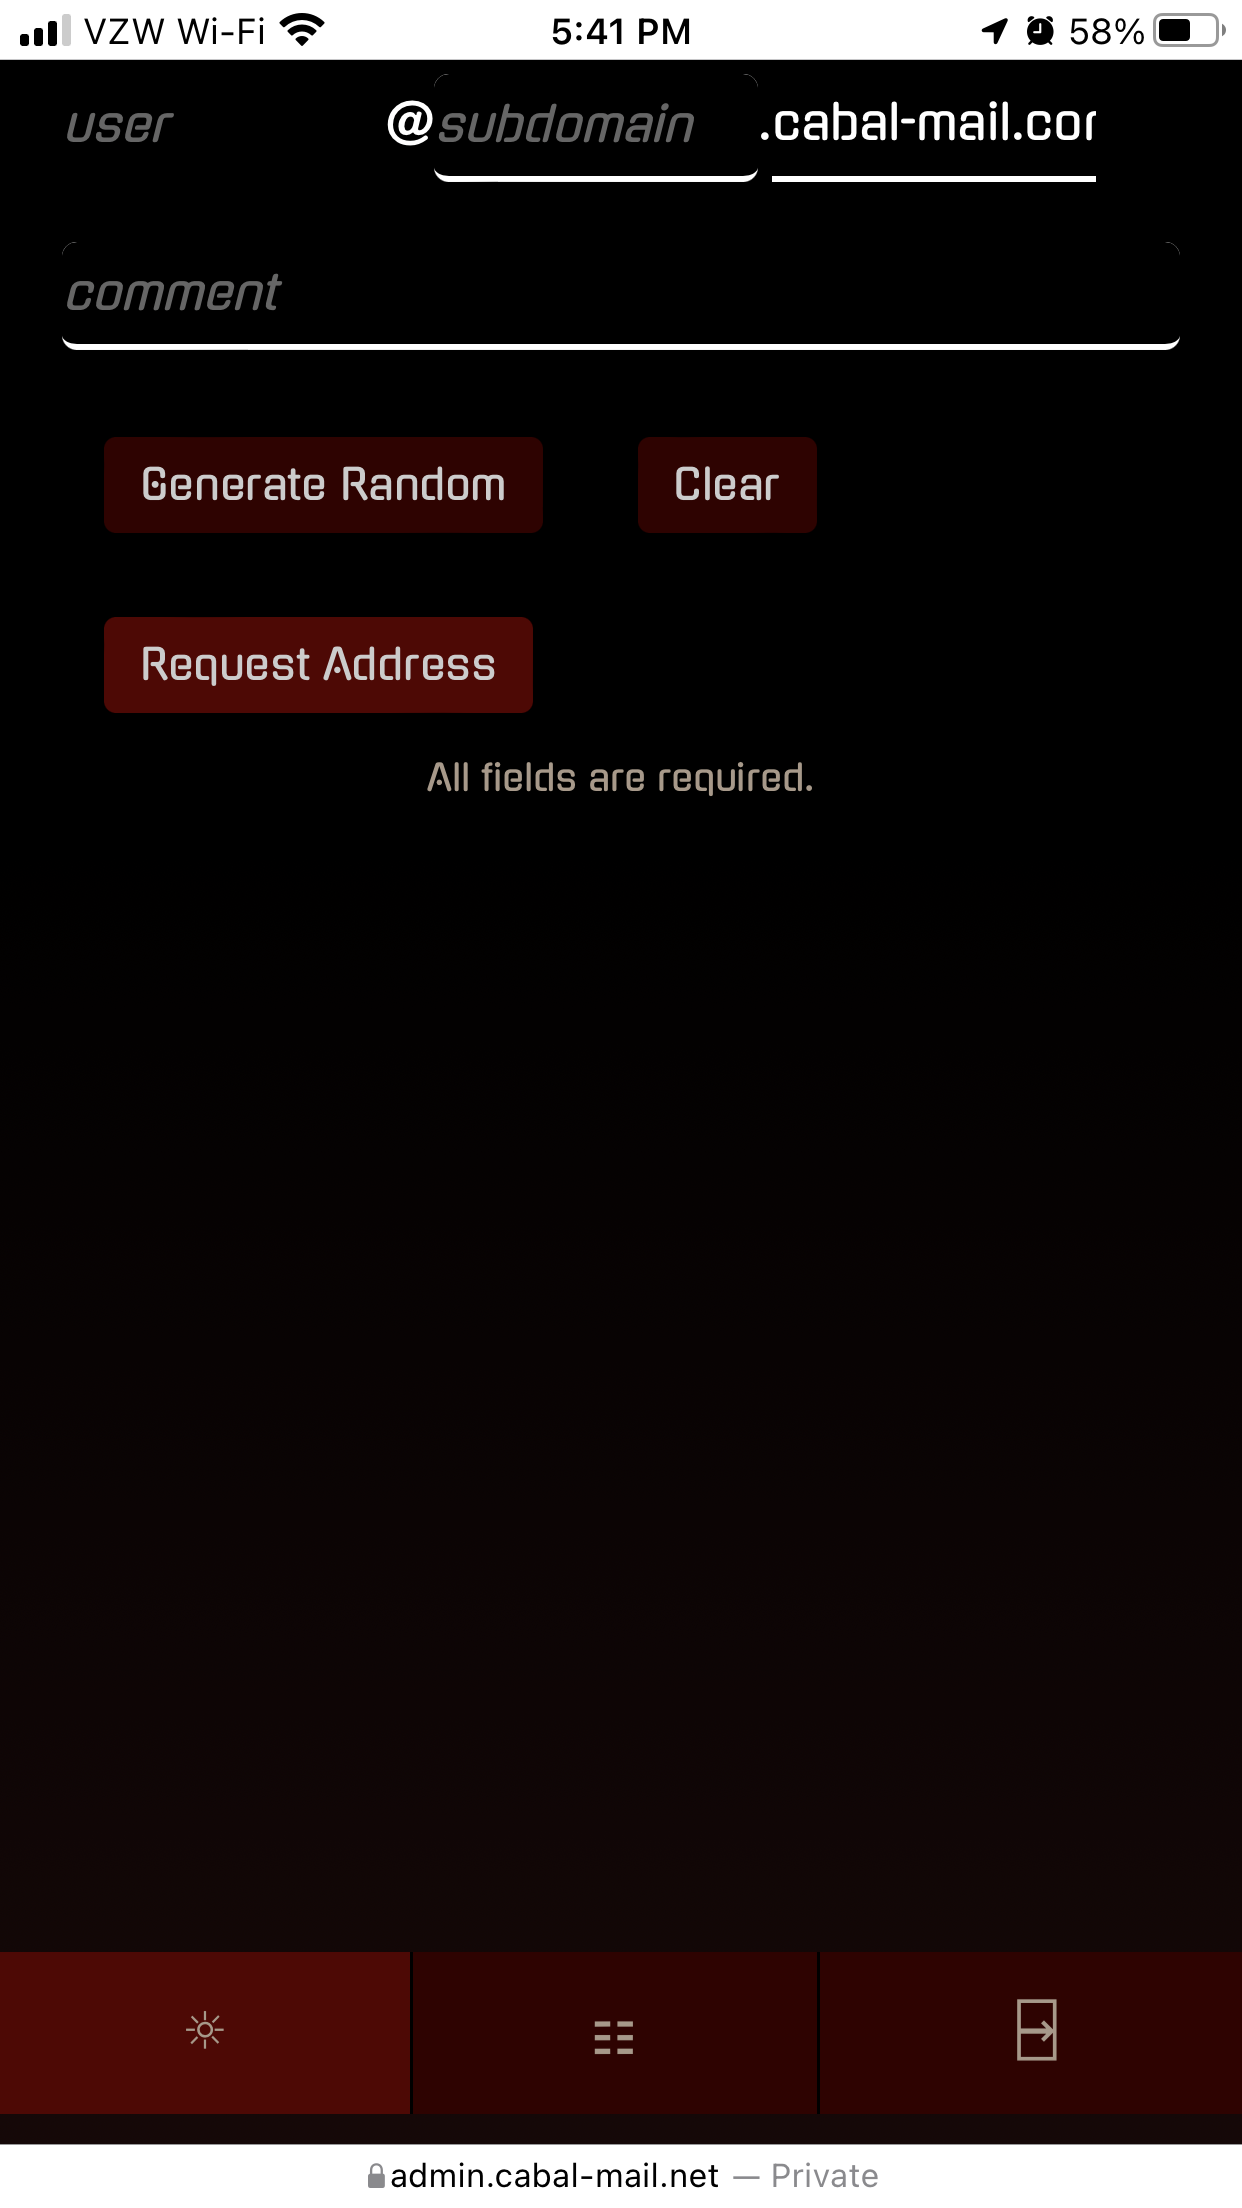
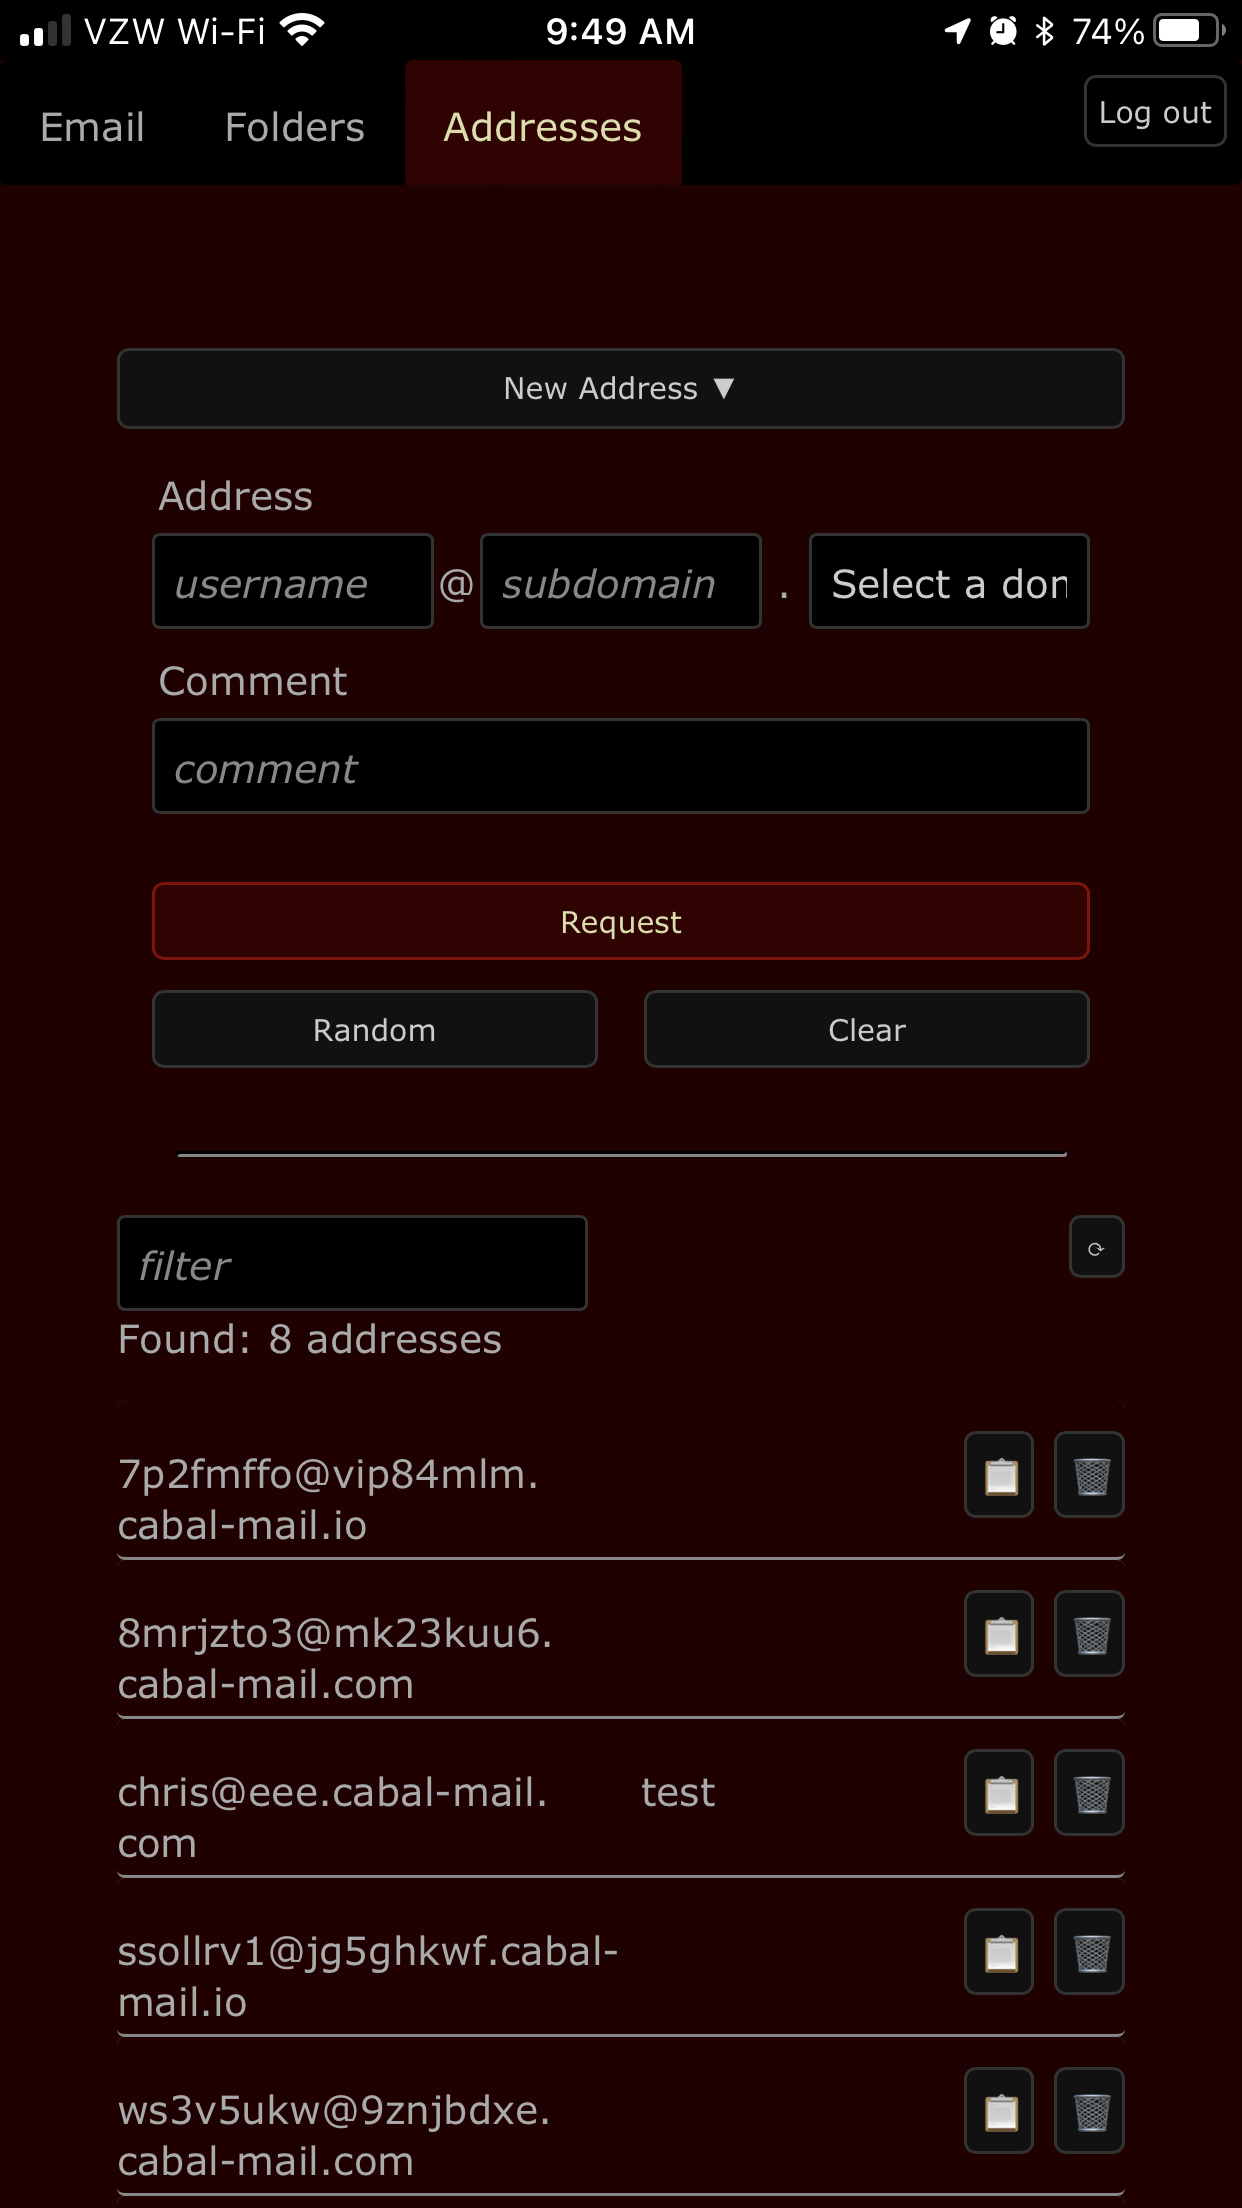
Update user manual and app images related to address management

diff --git a/docs/user_manual.md b/docs/user_manual.md
@@ -15,13 +15,11 @@ As an end user, you must first establish an account. Once approved, you can use 
 ### Creating an Account
 1. Visit the login page at the admin URL.
 
-2. Click the "Or request an account" link on the login page.
+2. Click or tap "Sign up" in the main tab bar.
 
-    <img src="./app_screens/1_login.png" alt="Login Page" width="400" />
+    <img src="./app_screens/0_signup.png" alt="Login Page" width="400" />
 
-3. Fill out the form. All fields are mandatory. When done, tap or click the "Request Account" button.
-
-    <img src="./app_screens/0_signup.png" alt="Signup Page" width="400" />
+3. Fill out the form. All fields are mandatory. When done, tap or click the "Signup" button.
 
 4. Wait for an administrator to approve your account.
 
@@ -32,44 +30,72 @@ As an end user, you must first establish an account. Once approved, you can use 
 
     <img src="./app_screens/1_login.png" alt="Login Page" width="400" />
 
-3. Tap or click the "Sign in" button.
+3. Tap or click the "Login" button.
 
-### Requesting an Address
-After logging in, the default screen is the request address form.
+### Working with Addresses
 
-1. If you're not already on the request address form, tap the asterisk tab in the lower left (mobile) or click on the "New address" tab in the upper left (desktop).
+Click or tap on "Addresses" in the main tab bar to request a new address, list addresses, or revoke an address.
+
+#### Requesting an Address
+
+1. From the Addresses screen, click or tap on the "New Address" button to reveal a form.
 
     <img src="./app_screens/2_request_address.png" alt="Request Address Page" width="400" />
 
-2. Fill out the form. Optionally, click the "Generate Random" button to quickly create a unique address suitable for online contact forms. All fields are mandatory. (For "Comment", we recommend that you record the name of the person or company to whom you intend to give the address. This will help locate it later, especially if you used the "Generate Random" button.) When done, tap or click on the "Request Address" button.
+2. Fill out the form, or use the "Random" button to quickly create a unique address suitable for online contact forms. All fields are mandatory except the Comment field. (For "Comment", we recommend that you record the name of the person or company to whom you intend to give the address. This will help locate it later, especially if you used the "Random" button.) When done, tap or click on the "Request" button.
 
-    <img src="./app_screens/3_request_address.png" alt="Request Address Page" width="400" />
-
-    
-3. After a moment, a popup will appear informing you that the address has been requested, and that it should be ready for use within five minutes. As a convenience, the app pushes the new address into your clipboard so that you can easily paste it.
+3. After a moment, a popup will appear informing you that the address has been requested. It is generally safe to begin using the address within a minute or two. As a convenience, the app scrolls the new address into view.
 
     <img src="./app_screens/4_request_address.png" alt="Request Address Page" width="400" />
 
-### Listing Your Addresses
-A list of your addresses can be accessed by tapping the list tab in the lower center (mobile) or clicking on the "View addresses" tab in the upper left (desktop). At the top of this screen, you can filter by top level domain or other text.
+4. Optionally, tap the 📋 button to copy the address into your system clipboard.
+
+    <img src="./app_screens/4_request_address.png" alt="Request Address Page" width="400" />
+
+#### Listing Your Addresses
+A list of your addresses can be accessed by tapping or clicking the "Addresses" tab in the main tab bar. At the top of this screen, you can filter by arbitrary text.
 
 <img src="./app_screens/5_list_addresses.png" alt="Address List Page" width="400" />
 
-### Copying an Address
-You can copy an address to your clipboard by tapping or clicking on it from the list screen.
+#### Copying an Address
+You can copy an address to your clipboard by tapping or clicking the adjascent 📋 button from the list screen.
 
 <img src="./app_screens/6_copy_address.png" alt="Copying an Address" width="400" />
 
-### Revoking an Address
-1. Locate the offending address on the list screen, and tap the > icon (mobile) or click the "Details" link (desktop) associated with the address. This brings up a details screen.
+#### Revoking an Address
+1. Locate the offending address on the list screen. Use the filter to help narrow down the list.
 
-    <img src="./app_screens/7_view_address_details.png" alt="Address List Page" width="400" />
+    <img src="./app_screens/7_revoke_address.png" alt="Address List Page with filter applied" width="400" />
 
-2. On the details screen, verify that you have selected the correct address.
-
-3. Tap or click the "Revoke" button.
+2. Tap or click the 🗑 button.
 
     <img src="./app_screens/8_revoke_address.png" alt="Revoking an Address" width="400" />
+
+### Working with Folders
+
+Click or tap on "Folders" in the main tab bar to create new folders, list folders, delete folders, and designate favorite folders.
+
+#### Creating a Folder
+
+#### Delete a Folder
+
+#### Designate a Folder as a Favorite
+
+#### Remove Favorite Designation
+
+### Working with Email
+
+Click or tap on "Email" in the main tab bar to access the webmail client. The webmail client provides all standard email operations, including reading and composing. While composing an email, you can create a new sender address on the fly. While reading an email, you can revoke the receiving address to prevent further abuse.
+
+#### Changing Folders
+
+#### Changing how Messages are Sorted
+
+#### Reading a Message
+
+#### Composing a New Message
+
+#### Replying to a Message
 
 ### Log Out
 When done, log out of the application by tapping the exit-door icon in the lower right (mobile) or clicking on the "Sign out" button in the upper right (desktop).
